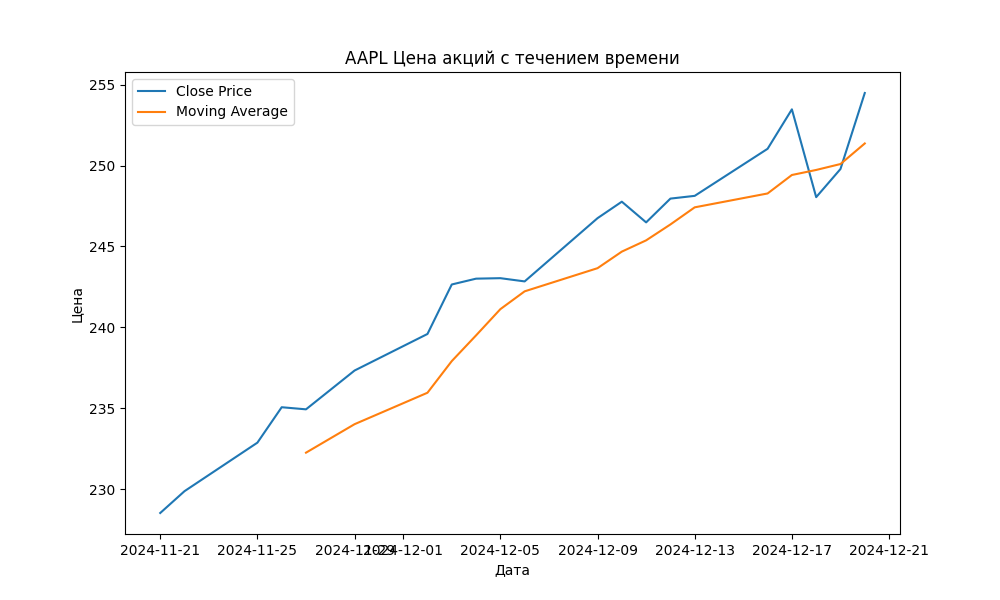
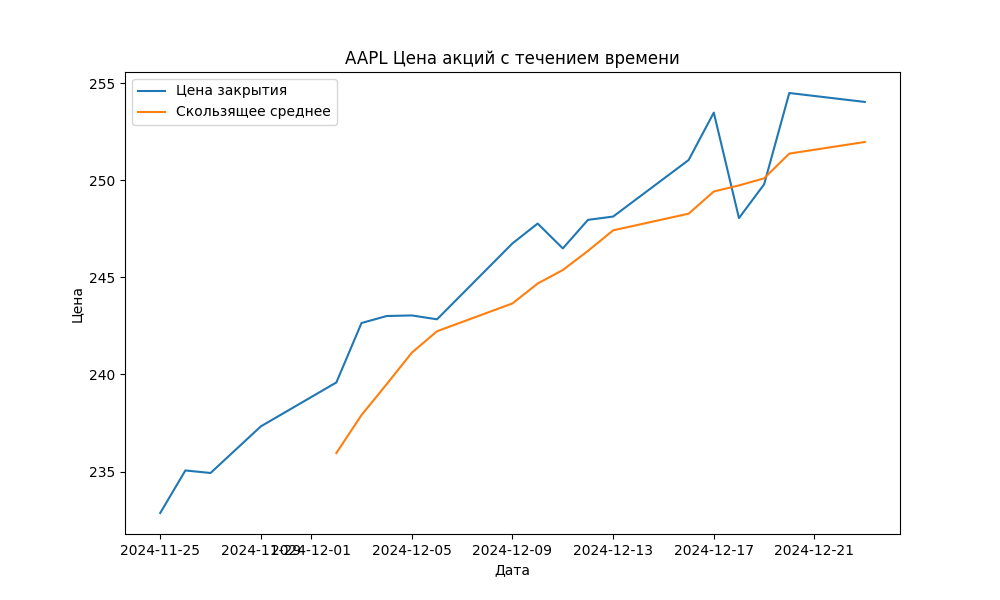
Task2

diff --git a/main.py b/main.py
@@ -3,18 +3,6 @@ import data_plotting as dplt
 
 
 def main():
-    """
-    Основная функция для запуска инструмента получения и построения графиков биржевых данных.
-
-    Эта функция приветствует пользователя, запрашивает тикер акции и период времени,
-    загружает данные о запасах, рассчитывает среднюю цену закрытия, добавляет скользящее
-    среднее и строит график.
-
-    Примеры тикеров: AAPL (Apple Inc), GOOGL (Alphabet Inc), MSFT (Microsoft Corporation),
-    AMZN (Amazon.com Inc), TSLA (Tesla Inc).
-
-    Общие временные периоды: 1д, 5д, 1мес, 3мес, 6мес, 1г, 2г, 5г, 10л, с начала года, макс.
-    """
     print("Добро пожаловать в инструмент получения и построения графиков биржевых данных.")
     print("Вот несколько примеров биржевых тикеров, которые вы можете рассмотреть: "
           "AAPL (Apple Inc), GOOGL (Alphabet Inc), MSFT (Microsoft Corporation), "
@@ -34,7 +22,12 @@ def main():
     # Add moving average to the data
     stock_data = dd.add_moving_average(stock_data)
 
+    # Notify if there are strong fluctuations
+    threshold = float(input("Введите порог колебаний в процентах (например, 5 для 5%): "))
+    dd.notify_if_strong_fluctuations(stock_data, threshold)
+
     # Plot the data
+    print("Сохранение графика...")
     dplt.create_and_save_plot(stock_data, ticker, period)
 
 

diff --git a/data_download.py b/data_download.py
@@ -38,3 +38,21 @@ def calculate_and_display_average_price(data):
     """
     average_price = data['Close'].mean()
     print(f"\nСредняя цена закрытия акций за заданный период: {average_price:.2f}\n")
+
+
+def notify_if_strong_fluctuations(data, threshold):
+    """
+    Уведомляет пользователя, если цена акций колебалась более чем на заданный процент за период.
+
+    Параметры:
+    data (DataFrame): Данные об акциях, включая цены закрытия.
+    threshold (float): Порог колебаний в процентах.
+    """
+    max_price = data['Close'].max()
+    min_price = data['Close'].min()
+    fluctuation = ((max_price - min_price) / min_price) * 100  # Calculate percentage fluctuation
+
+    if fluctuation > threshold:
+        print(f"Уведомление: Цена акций колебалась более чем на {threshold}% за период. "
+              f"Максимальная цена: {max_price:.2f}, Минимальная цена: {min_price:.2f}, "
+              f"Общее колебание: {fluctuation:.2f}%")

diff --git a/data_plotting.py b/data_plotting.py
@@ -1,6 +1,8 @@
 import os
 import matplotlib.pyplot as plt
 import pandas as pd
+from datetime import datetime
+import pytz
 
 def create_and_save_plot(data, ticker, period, filename=None):
     """
@@ -41,8 +43,12 @@ def create_and_save_plot(data, ticker, period, filename=None):
     if not os.path.exists('images'):
         os.makedirs('images')
 
+    # Get current time in Moscow timezone
+    moscow_tz = pytz.timezone('Europe/Moscow')
+    current_time = datetime.now(moscow_tz).strftime("%Y%m%d_%H%M%S")
+
     if filename is None:
-        filename = f"images/{ticker}_{period}_stock_price_chart.png"
+        filename = f"images/{ticker}_{period}_stock_price_chart_{current_time}.png"
 
     plt.savefig(filename)
     print(f"График сохранен как {filename}")

diff --git a/README.md b/README.md
@@ -1,8 +1,5 @@
 # Проект анализа и визуализации данных об акциях
 
-## Ссылка на проект
-[Ссылка на проект](#)
-
 ## Общий обзор
 Этот проект предназначен для загрузки исторических данных об акциях и их визуализации. Он использует библиотеку `yfinance` для получения данных и `matplotlib` для создания графиков. Пользователи могут выбирать различные тикеры и временные периоды для анализа, а также просматривать движение цен и скользящие средние на графике.
 
@@ -41,6 +38,7 @@
 
 ## Улучшения исходного кода
 1. Реализована функция calculate_and_display_average_price(data), которая вычисляет и выводит среднюю цену закрытия акций за заданный период. Функция принимает DataFrame и вычисляет среднее значение колонки 'Close'. Результат выводится в консоль.
+2. Разработана функция notify_if_strong_fluctuations(data, threshold), которая анализирует данные и уведомляет пользователя, если цена акций колебалась более чем на заданный процент за период. Функция вычисляет максимальное и минимальное значения цены закрытия и сравнивать разницу с заданным порогом. Если разница превышает порог, пользователь получает уведомление. В данной версии улучшения кода в имя файла добавлена текущая дата и время для удобства протоколирования результатов расчета.
 
 # Примеры графиков акций
 
@@ -69,3 +67,9 @@
 ![График цен акций Microsoft](images/project_1_screen1.png)
 
 ![График цен акций Microsoft](images/project_1_screen2.png)
+
+## Ввод порога колебаний цены и уведомление о превышении цены акций компании Apple за 1 месяц
+
+![График цен акций Microsoft](images/project_1_task_2_screen.png)
+
+
